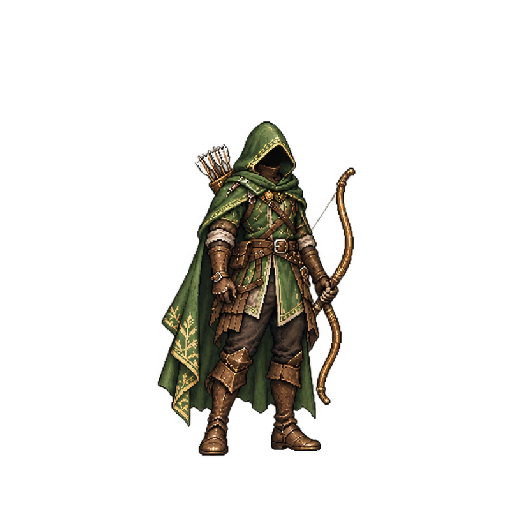
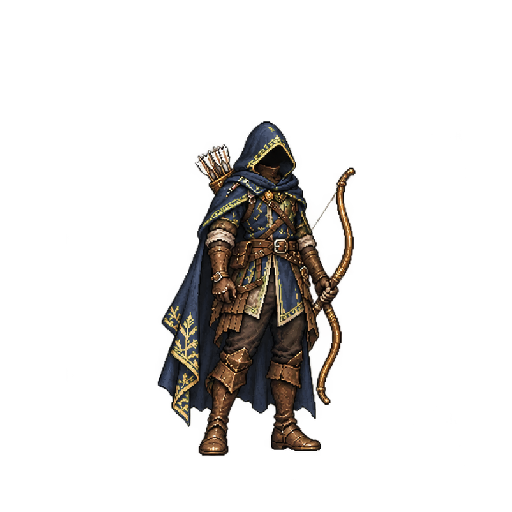
Dress Kestrel the archer in night blue instead of the Serpents' green on her master, combat poses and sprite sheet, with the manifests' hashes and her identity palette (OD-2026-11-11-F, F3)
Agent: claude; Run: claude-images-recruit-archer-20261112T0130Z

diff --git a/src/render/assetManifest.ts b/src/render/assetManifest.ts
@@ -118,7 +118,7 @@ export const assets = {
     alistair: { category: 'playable_hero', factionId: 'lion', rarity: 'unique', recruitTier: 'core', colorPalette: ['emerald', 'steel', 'gold'], silhouetteNotes: 'Frontline knight, wide defensive stance.' },
     marian: { category: 'playable_hero', factionId: 'lion', rarity: 'unique', recruitTier: 'core', colorPalette: ['white', 'gold', 'silver'], silhouetteNotes: 'Sacred cleric with staff and protective robes.' },
     elara: { category: 'playable_hero', factionId: 'lion', rarity: 'unique', recruitTier: 'core', colorPalette: ['arcane blue', 'cyan', 'gold'], silhouetteNotes: 'Arcane caster with pointed hat and glowing staff.' },
-    kestrel: { category: 'playable_hero', factionId: 'lion', rarity: 'unique', recruitTier: 'core', colorPalette: ['forest green', 'leather brown', 'night blue'], silhouetteNotes: 'Mobile hooded archer.' },
+    kestrel: { category: 'playable_hero', factionId: 'lion', rarity: 'unique', recruitTier: 'core', colorPalette: ['night blue', 'leather brown', 'antique gold'], silhouetteNotes: 'Mobile hooded archer.' },
     cedric: { category: 'playable_hero', factionId: 'neutral', rarity: 'unique', recruitTier: 'optional', colorPalette: ['sand', 'muted green', 'light leather'], silhouetteNotes: 'Nomad scout, lighter than Kestrel.' },
     lancer: { category: 'playable_hero', factionId: 'lion', rarity: 'unique', recruitTier: 'optional', colorPalette: ['steel', 'emerald', 'gold'], silhouetteNotes: 'Young Lion militiaman with spear and shield.' },
     alaric: { category: 'boss', factionId: 'lion', rarity: 'boss', colorPalette: ['royal blue', 'gold', 'ivory'], silhouetteNotes: 'Giant lion-chief boss, 2x2 board presence.' },
